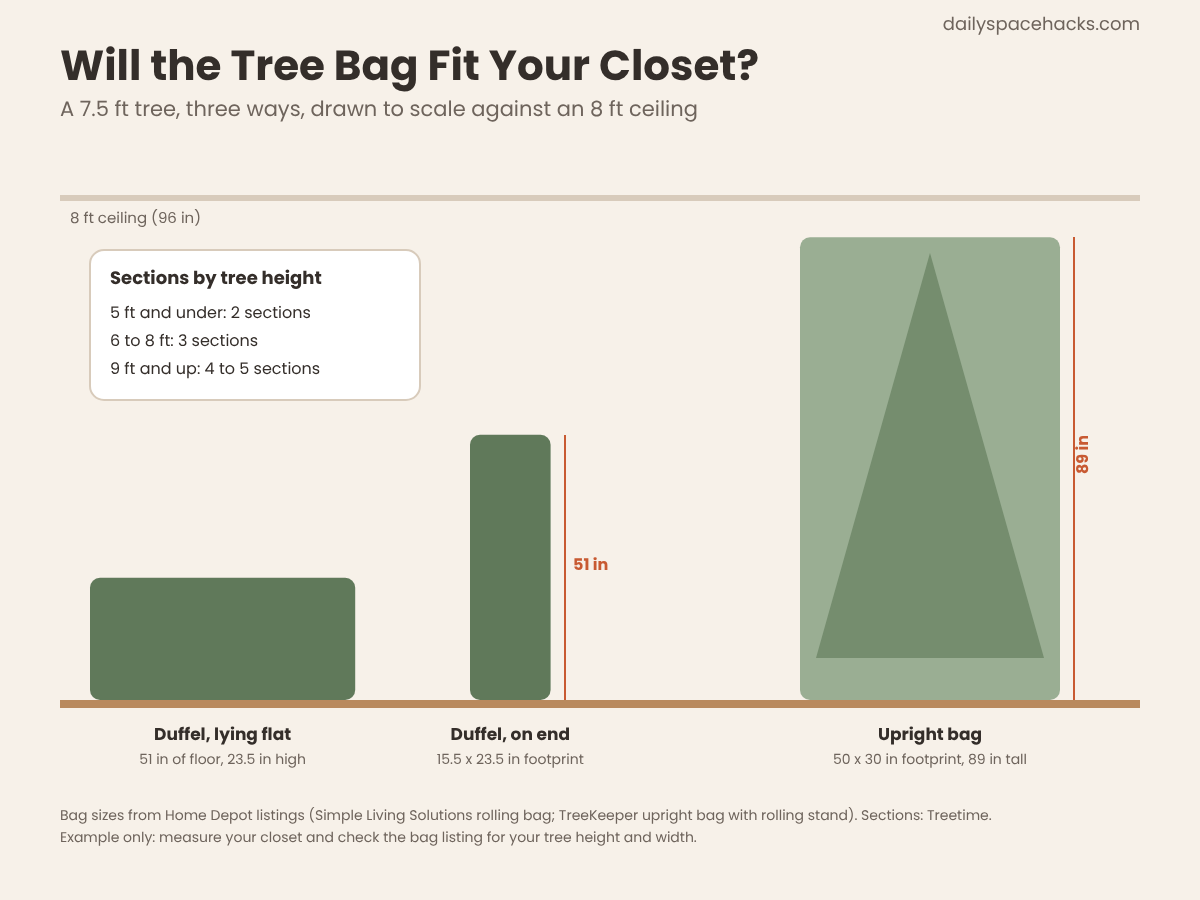
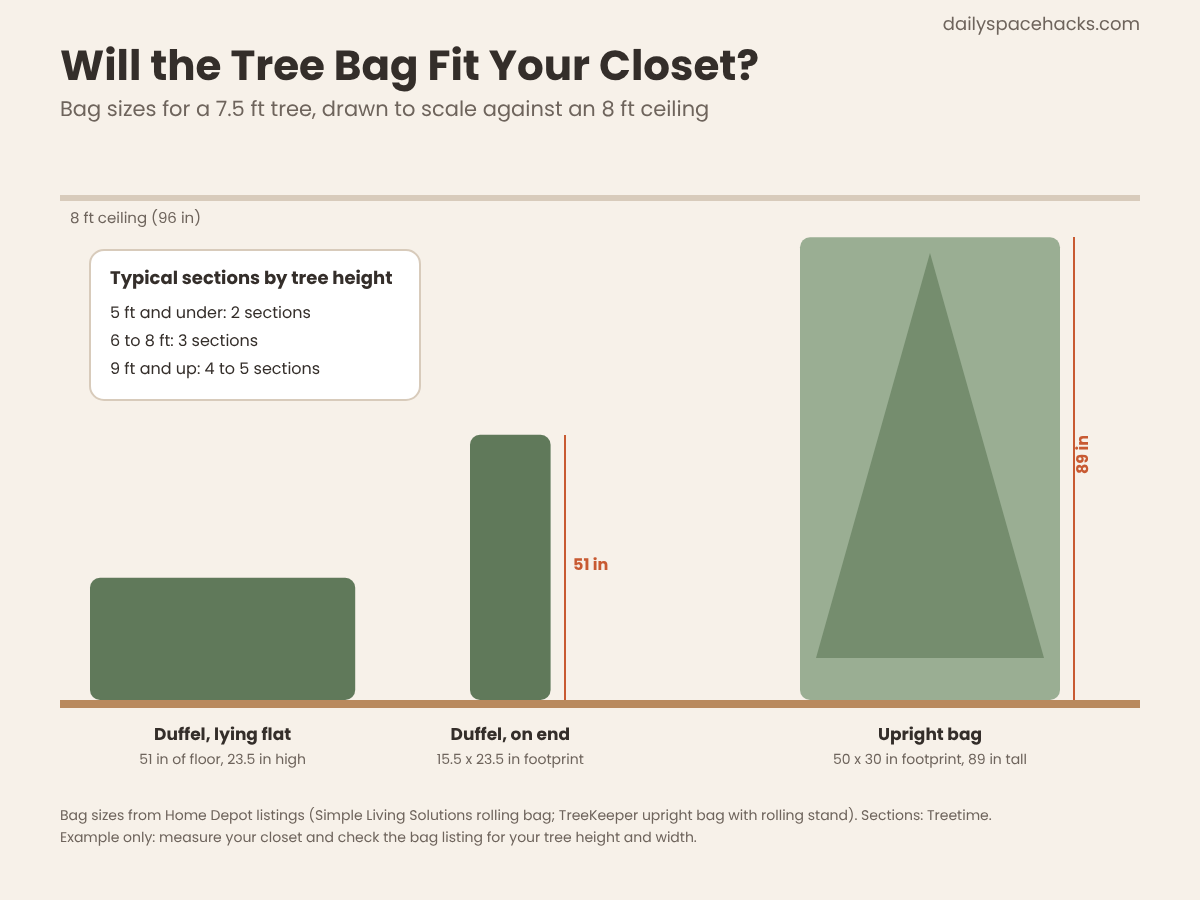
xmas tree fact-check fixes
Claude-Session: https://claude.ai/code/session_015bHY4eNJzsj1XRjde6uJvz

Changed region(s): [[0.0617, 0.0933, 0.5858, 0.1556], [0.0925, 0.28, 0.3392, 0.3422]]

diff --git a/tools/xmas-tree/content.html b/tools/xmas-tree/content.html
@@ -3,11 +3,11 @@
 <!-- /wp:paragraph -->
 
 <!-- wp:paragraph -->
-<p>Done this way, the tree comes out next December in the same shape it went in. Treated well, an artificial tree can last a long time: Balsam Hill's CEO told Scripps News that <a href="https://www.scrippsnews.com/dont-waste-your-money/dont-make-these-mistakes-taking-down-your-artificial-tree" target="_blank" rel="noopener">proper care can help it last 10 years or more</a>.</p>
+<p>Done this way, the tree comes out next December in the same shape it went in. Treated well, an artificial tree can last a long time: Balsam Hill founder and CEO Mac Harman told Scripps News that today's trees <a href="https://www.scrippsnews.com/dont-waste-your-money/dont-make-these-mistakes-taking-down-your-artificial-tree" target="_blank" rel="noopener">could last a decade or more</a>.</p>
 <!-- /wp:paragraph -->
 
-<!-- wp:image {"id":0,"sizeSlug":"full","linkDestination":"none"} -->
-<figure class="wp-block-image size-full"><img src="https://dailyspacehacks.com/wp-content/uploads/2026/10/x.jpg" alt="x" class="wp-image-0"/></figure>
+<!-- wp:image {"id":3350,"sizeSlug":"full","linkDestination":"none"} -->
+<figure class="wp-block-image size-full"><img src="https://dailyspacehacks.com/wp-content/uploads/2026/10/how-to-store-an-artificial-christmas-tree-01-tree-and-bag.jpg" alt="Undecorated artificial Christmas tree in a living room beside an open green rolling storage bag, a metal tree stand and a clear bin of ornaments" class="wp-image-3350"/></figure>
 <!-- /wp:image -->
 
 <!-- wp:heading -->
@@ -23,7 +23,7 @@
 <!-- /wp:heading -->
 
 <!-- wp:paragraph -->
-<p>A tree that goes into a bag dusty or damp comes out musty. Nearly Natural, a maker of artificial trees, suggests you <a href="https://www.nearlynatural.com/blogs/artificial-plants-and-trees-news/how-to-store-your-artificial-christmas-tree" target="_blank" rel="noopener">use a soft cloth or microfiber duster to wipe each branch</a>. Puleo, quoted by Reviewed, advises: <a href="https://reviewed.com/organization/features/how-store-artificial-christmas-tree" target="_blank" rel="noopener">allow the tree to dry thoroughly before storing</a>. If the tree stood near a humidifier or a door that let in snow, give it a day in a dry room first.</p>
+<p>A tree that goes into a bag dusty or damp comes out musty. Nearly Natural, a maker of artificial trees, suggests you <a href="https://www.nearlynatural.com/blogs/artificial-plants-and-trees-news/how-to-store-your-artificial-christmas-tree" target="_blank" rel="noopener">use a soft cloth or microfiber duster to wipe each branch</a>. Lewis Puleo of Puleo International, an artificial tree maker, told Reviewed to <a href="https://reviewed.com/organization/features/how-store-artificial-christmas-tree" target="_blank" rel="noopener">allow the tree to dry thoroughly before storing</a>. If the tree stood near a humidifier or a door that let in snow, give it a day in a dry room first.</p>
 <!-- /wp:paragraph -->
 
 <!-- wp:heading -->
@@ -31,19 +31,19 @@
 <!-- /wp:heading -->
 
 <!-- wp:paragraph -->
-<p>Work in the reverse order you put it up. King of Christmas says to remove each section <a href="https://www.kingofchristmas.com/pages/tree-assembly-shaping-and-storage" target="_blank" rel="noopener">starting from the top section and ending with the stand</a>, and a National Tree Company manual notes that a twisting motion helps separate stiff sections. Most 6 to 8 foot trees come apart into three sections, according to Treetime; smaller trees have two, and trees of 9 feet and up have four or five. On a pre-lit tree, unplug the connectors between sections first and don't pull on the wires: King of Christmas asks you <a href="https://www.kingofchristmas.com/pages/tree-assembly-shaping-and-storage" target="_blank" rel="noopener">not to use force or tug at the wires</a>.</p>
+<p>Work in the reverse order you put it up. King of Christmas says to remove each section <a href="https://www.kingofchristmas.com/pages/tree-assembly-shaping-and-storage" target="_blank" rel="noopener">starting from the top section and ending with the stand</a>, and a National Tree Company manual notes that a twisting motion helps separate stiff sections. Most 6 to 8 foot trees come apart into three sections, according to Treetime; trees 5 feet and under typically have two, and trees 9 feet and taller may have four or five. On a pre-lit tree, unplug the connectors between sections first, and lift each section by the pole, not by the wires.</p>
 <!-- /wp:paragraph -->
 
 <!-- wp:heading -->
 <h2 class="wp-block-heading">Step 4: Fold the Branches Up and Tie Each Section</h2>
 <!-- /wp:heading -->
 
-<!-- wp:image {"id":0,"sizeSlug":"full","linkDestination":"none"} -->
-<figure class="wp-block-image size-full"><img src="https://dailyspacehacks.com/wp-content/uploads/2026/10/x.jpg" alt="x" class="wp-image-0"/></figure>
+<!-- wp:image {"id":3351,"sizeSlug":"full","linkDestination":"none"} -->
+<figure class="wp-block-image size-full"><img src="https://dailyspacehacks.com/wp-content/uploads/2026/10/how-to-store-an-artificial-christmas-tree-02-folded-sections.jpg" alt="Three artificial Christmas tree sections with branches folded up, each tied with red ribbon, beside a small zip bag holding the stand bolt" class="wp-image-3351"/></figure>
 <!-- /wp:image -->
 
 <!-- wp:paragraph -->
-<p>Branches fold up toward the pole, the way the tree arrived. Balsam Hill says to compress the foliage with both hands before detaching each section, then <a href="https://balsamhill.com/storing-your-artificial-christmas-tree-instructions" target="_blank" rel="noopener">tie a ribbon or cord around the section</a> so it stays compact. Don't overdo it. Treetime warns that <a href="https://www.treetime.com/how-to-store-my-artificial-christmas-tree" target="_blank" rel="noopener">over-compressing branches</a> makes next year's shaping harder, and pre-lit trees need extra care so bulbs don't snap. If your lights are separate strings, Public Storage advises: <a href="https://www.publicstorage.com/blog/storage-tips/artificial-christmas-tree-storage.html" target="_blank" rel="noopener">avoid wrapping cords tightly around branches</a>. Wind them around a piece of card instead.</p>
+<p>Branches fold up toward the pole, the way the tree arrived. Balsam Hill's method is to compress each section's foliage with both hands while it is still on the tree, then lift it off and <a href="https://balsamhill.com/storing-your-artificial-christmas-tree-instructions" target="_blank" rel="noopener">tie a ribbon or cord around the section</a> so it stays compact. Don't overdo it. Treetime warns that <a href="https://www.treetime.com/how-to-store-my-artificial-christmas-tree" target="_blank" rel="noopener">over-compressing branches</a> makes next year's shaping harder. On a pre-lit tree, Balsam Hill says to <a href="https://balsamhill.com/storing-your-artificial-christmas-tree-instructions" target="_blank" rel="noopener">take extra care when compressing the branches</a> so the bulbs don't get damaged. On a pre-lit tree, Public Storage advises: <a href="https://www.publicstorage.com/blog/storage-tips/artificial-christmas-tree-storage.html" target="_blank" rel="noopener">avoid wrapping cords tightly around branches</a>. If your lights are separate strings, take them off and wind them loosely around a piece of cardboard.</p>
 <!-- /wp:paragraph -->
 
 <!-- wp:heading -->
@@ -51,7 +51,7 @@
 <!-- /wp:heading -->
 
 <!-- wp:paragraph -->
-<p>The cardboard box the tree came in is almost impossible to close again, and Balsam Hill says such boxes are <a href="https://www.balsamhill.com/how-to-store-your-christmas-decorations" target="_blank" rel="noopener">bound to deteriorate over time</a>. Balsam Hill says storage bags offer better protection against heat, humidity and pests, and a rolling one is easier to move. Before you buy, check the bag against your tree and your closet:</p>
+<p>The cardboard box the tree came in is often hard to close again, and Balsam Hill says such boxes are <a href="https://www.balsamhill.com/how-to-store-your-christmas-decorations" target="_blank" rel="noopener">bound to deteriorate over time</a>. Balsam Hill says storage bags <a href="https://balsamhill.com/storing-your-artificial-christmas-tree-instructions" target="_blank" rel="noopener">offer superior protection against heat, humidity, and damage from pests</a>, and a bag with wheels is easier to move. Before you buy, check the bag against your tree and your closet:</p>
 <!-- /wp:paragraph -->
 
 <!-- wp:list -->
@@ -62,44 +62,44 @@
 <li><strong>Upright bags</strong> zip over the tree while it is still assembled, but they are big: a TreeKeeper bag for trees up to 7.5 feet measures <a href="https://www.homedepot.com/p/TreeKeeper-Medium-Upright-Christmas-Tree-Storage-Bag-for-Trees-Up-to-7-5-ft-Tall-with-Rolling-Tree-Stand-TK-10105-RS/310520633" target="_blank" rel="noopener">H 89 in, W 50 in, D 30 in</a>.</li>
 <!-- /wp:list-item -->
 <!-- wp:list-item -->
-<li><strong>Big trees</strong> can go in two bags. Balsam Hill suggests putting the odd-numbered sections in one and the even-numbered sections in the other, so neither bag gets too heavy.</li>
+<li><strong>Big trees</strong> can go in two bags. Balsam Hill suggests putting the odd-numbered sections in one and the even-numbered sections in the other.</li>
 <!-- /wp:list-item --></ul>
 <!-- /wp:list -->
 
 <!-- wp:html -->
-<figure class="dsh-diagram"><svg xmlns="http://www.w3.org/2000/svg" viewBox="0 0 1200 900" font-family="Poppins, sans-serif" role="img" aria-labelledby="xt-t xt-d"><title id="xt-t">Will your Christmas tree bag fit the closet?</title><desc id="xt-d">Side view, to scale, of three ways to store a 7.5 foot artificial tree in a closet with a 96 inch (8 foot) ceiling. A rolling duffel bag of about 51 by 15.5 by 23.5 inches lying flat takes 51 inches of floor; stood on end it needs 51 inches of height and a footprint of about 15.5 by 23.5 inches. An upright storage bag with a rolling stand, about 89 inches tall, 50 inches wide and 30 inches deep, keeps the tree assembled but needs a 50 by 30 inch footprint and at least 89 inches of height. Typical section counts: trees of 5 feet and under have 2 sections, 6 to 8 feet have 3, and 9 feet and up have 4 to 5.</desc><rect width="1200" height="900" fill="#F7F1E9"/><text x="60" y="80" font-size="42" font-weight="700" fill="#342E2A">Will the Tree Bag Fit Your Closet?</text><text x="60" y="116" font-size="21" fill="#6E645C">A 7.5 ft tree, three ways, drawn to scale against an 8 ft ceiling</text><text x="1140" y="30" font-size="18" fill="#6E645C" text-anchor="end">dailyspacehacks.com</text><rect x="60" y="195" width="1080" height="6" fill="#D8CBBB"/><text x="70" y="223" font-size="15" fill="#6E645C">8 ft ceiling (96 in)</text><rect x="60" y="700" width="1080" height="8" fill="#B98A5E"/><rect x="90" y="577.8" width="265.2" height="122.2" rx="10" fill="#4F6B4A" opacity="0.9"/><text x="222.6" y="740" font-size="17" font-weight="700" fill="#342E2A" text-anchor="middle">Duffel, lying flat</text><text x="222.6" y="764" font-size="14" fill="#6E645C" text-anchor="middle">51 in of floor, 23.5 in high</text><rect x="470" y="434.8" width="80.6" height="265.2" rx="10" fill="#4F6B4A" opacity="0.9"/><text x="510.3" y="740" font-size="17" font-weight="700" fill="#342E2A" text-anchor="middle">Duffel, on end</text><text x="510.3" y="764" font-size="14" fill="#6E645C" text-anchor="middle">15.5 x 23.5 in footprint</text><rect x="800" y="237.2" width="260.0" height="462.8" rx="10" fill="#8FA689" opacity="0.9"/><text x="930.0" y="740" font-size="17" font-weight="700" fill="#342E2A" text-anchor="middle">Upright bag</text><text x="930.0" y="764" font-size="14" fill="#6E645C" text-anchor="middle">50 x 30 in footprint, 89 in tall</text><polygon points="930,253 816,658 1044,658" fill="#4F6B4A" opacity="0.5"/><line x1="565" y1="700" x2="565" y2="435" stroke="#C85A32" stroke-width="2"/><text x="573" y="570" font-size="16" font-weight="700" fill="#C85A32">51 in</text><line x1="1074" y1="700" x2="1074" y2="237" stroke="#C85A32" stroke-width="2"/><text x="1080" y="466" font-size="16" font-weight="700" fill="#C85A32" transform="rotate(-90 1088 466)">89 in</text><rect x="90" y="250" width="330" height="150" rx="14" fill="#FFFFFF" stroke="#D8CBBB" stroke-width="2"/><text x="110" y="284" font-size="18" font-weight="700" fill="#342E2A">Sections by tree height</text><text x="110" y="318" font-size="16" fill="#342E2A">5 ft and under: 2 sections</text><text x="110" y="346" font-size="16" fill="#342E2A">6 to 8 ft: 3 sections</text><text x="110" y="374" font-size="16" fill="#342E2A">9 ft and up: 4 to 5 sections</text><text x="60" y="820" font-size="14" fill="#6E645C">Bag sizes from Home Depot listings (Simple Living Solutions rolling bag; TreeKeeper upright bag with rolling stand). Sections: Treetime.</text><text x="60" y="842" font-size="14" fill="#6E645C">Example only: measure your closet and check the bag listing for your tree height and width.</text></svg><figcaption>A duffel bag on end needs the least floor space; an upright bag keeps the tree assembled but needs about 89 inches of height.</figcaption></figure>
+<figure class="dsh-diagram"><svg xmlns="http://www.w3.org/2000/svg" viewBox="0 0 1200 900" font-family="Poppins, sans-serif" role="img" aria-labelledby="xt-t xt-d"><title id="xt-t">Will your Christmas tree bag fit the closet?</title><desc id="xt-d">Side view, to scale, of three ways to store a 7.5 foot artificial tree in a closet with a 96 inch (8 foot) ceiling. A rolling duffel bag of about 51 by 15.5 by 23.5 inches lying flat takes 51 inches of floor; stood on end it needs 51 inches of height and a footprint of about 15.5 by 23.5 inches. An upright storage bag with a rolling stand, about 89 inches tall, 50 inches wide and 30 inches deep, keeps the tree assembled but needs a 50 by 30 inch footprint and at least 89 inches of height. Typical section counts: trees of 5 feet and under have 2 sections, 6 to 8 feet have 3, and 9 feet and up have 4 to 5.</desc><rect width="1200" height="900" fill="#F7F1E9"/><text x="60" y="80" font-size="42" font-weight="700" fill="#342E2A">Will the Tree Bag Fit Your Closet?</text><text x="60" y="116" font-size="21" fill="#6E645C">Bag sizes for a 7.5 ft tree, drawn to scale against an 8 ft ceiling</text><text x="1140" y="30" font-size="18" fill="#6E645C" text-anchor="end">dailyspacehacks.com</text><rect x="60" y="195" width="1080" height="6" fill="#D8CBBB"/><text x="70" y="223" font-size="15" fill="#6E645C">8 ft ceiling (96 in)</text><rect x="60" y="700" width="1080" height="8" fill="#B98A5E"/><rect x="90" y="577.8" width="265.2" height="122.2" rx="10" fill="#4F6B4A" opacity="0.9"/><text x="222.6" y="740" font-size="17" font-weight="700" fill="#342E2A" text-anchor="middle">Duffel, lying flat</text><text x="222.6" y="764" font-size="14" fill="#6E645C" text-anchor="middle">51 in of floor, 23.5 in high</text><rect x="470" y="434.8" width="80.6" height="265.2" rx="10" fill="#4F6B4A" opacity="0.9"/><text x="510.3" y="740" font-size="17" font-weight="700" fill="#342E2A" text-anchor="middle">Duffel, on end</text><text x="510.3" y="764" font-size="14" fill="#6E645C" text-anchor="middle">15.5 x 23.5 in footprint</text><rect x="800" y="237.2" width="260.0" height="462.8" rx="10" fill="#8FA689" opacity="0.9"/><text x="930.0" y="740" font-size="17" font-weight="700" fill="#342E2A" text-anchor="middle">Upright bag</text><text x="930.0" y="764" font-size="14" fill="#6E645C" text-anchor="middle">50 x 30 in footprint, 89 in tall</text><polygon points="930,253 816,658 1044,658" fill="#4F6B4A" opacity="0.5"/><line x1="565" y1="700" x2="565" y2="435" stroke="#C85A32" stroke-width="2"/><text x="573" y="570" font-size="16" font-weight="700" fill="#C85A32">51 in</text><line x1="1074" y1="700" x2="1074" y2="237" stroke="#C85A32" stroke-width="2"/><text x="1080" y="466" font-size="16" font-weight="700" fill="#C85A32" transform="rotate(-90 1088 466)">89 in</text><rect x="90" y="250" width="330" height="150" rx="14" fill="#FFFFFF" stroke="#D8CBBB" stroke-width="2"/><text x="110" y="284" font-size="18" font-weight="700" fill="#342E2A">Typical sections by tree height</text><text x="110" y="318" font-size="16" fill="#342E2A">5 ft and under: 2 sections</text><text x="110" y="346" font-size="16" fill="#342E2A">6 to 8 ft: 3 sections</text><text x="110" y="374" font-size="16" fill="#342E2A">9 ft and up: 4 to 5 sections</text><text x="60" y="820" font-size="14" fill="#6E645C">Bag sizes from Home Depot listings (Simple Living Solutions rolling bag; TreeKeeper upright bag with rolling stand). Sections: Treetime.</text><text x="60" y="842" font-size="14" fill="#6E645C">Example only: measure your closet and check the bag listing for your tree height and width.</text></svg><figcaption>A duffel bag on end needs the least floor space; an upright bag keeps the tree assembled but needs about 89 inches of height.</figcaption></figure>
 <!-- /wp:html -->
 
 <!-- wp:paragraph -->
-<p>Put the largest section in first, as King of Christmas suggests, and don't force the zip. Balsam Hill's CEO told Scripps News: <a href="https://www.scrippsnews.com/dont-waste-your-money/dont-make-these-mistakes-taking-down-your-artificial-tree" target="_blank" rel="noopener">don't smash it in so tight that it puts stress on the wires</a>. Keep the stand and its bolt in a separate small bag so the metal doesn't crush the branches.</p>
+<p>Put the largest section in first, as King of Christmas suggests, and don't force the zipper. Balsam Hill's CEO told Scripps News: <a href="https://www.scrippsnews.com/dont-waste-your-money/dont-make-these-mistakes-taking-down-your-artificial-tree" target="_blank" rel="noopener">don't smash it in so tight that it puts stress on the wires</a>. Keep the stand and its bolt in a separate small bag so the metal doesn't crush the branches.</p>
 <!-- /wp:paragraph -->
 
 <!-- wp:heading -->
 <h2 class="wp-block-heading">Step 6: Choose a Cool, Dry Spot</h2>
 <!-- /wp:heading -->
 
-<!-- wp:image {"id":0,"sizeSlug":"full","linkDestination":"none"} -->
-<figure class="wp-block-image size-full"><img src="https://dailyspacehacks.com/wp-content/uploads/2026/10/x.jpg" alt="x" class="wp-image-0"/></figure>
+<!-- wp:image {"id":3352,"sizeSlug":"full","linkDestination":"none"} -->
+<figure class="wp-block-image size-full"><img src="https://dailyspacehacks.com/wp-content/uploads/2026/10/how-to-store-an-artificial-christmas-tree-03-bag-in-closet.jpg" alt="Green tree storage bag standing upright on a raised wooden platform inside a hall closet, next to hanging coats and storage bins" class="wp-image-3352"/></figure>
 <!-- /wp:image -->
 
 <!-- wp:paragraph -->
-<p>Where you keep the tree matters as much as how you pack it. A National Tree Company manual says to store it <a href="https://images.homedepot-static.com/catalog/pdfImages/ac/acc7fa34-739f-4a35-84d9-3e085469009b.pdf" target="_blank" rel="noopener">in a cool, dry location protected from sunlight</a>, and Nearly Natural says to avoid damp basements and hot attics, because heat can cause lights to fail or branches to lose their shape. HomeServe says an attic <a href="https://www.homeserve.com/en-us/blog/home-improvement/dangerous-attic-temperature-in-the-summer" target="_blank" rel="noopener">can reach 150 degrees Fahrenheit</a> in summer. Balsam Hill notes that damage from excessive heat or humidity in storage is not covered by its warranty.</p>
+<p>Where you keep the tree matters as much as how you pack it. A National Tree Company manual says to store it <a href="https://images.homedepot-static.com/catalog/pdfImages/ac/acc7fa34-739f-4a35-84d9-3e085469009b.pdf" target="_blank" rel="noopener">in a cool, dry location protected from sunlight</a>, and Nearly Natural says to avoid damp basements and hot attics, because heat can cause lights to fail or branches to lose their shape. HomeServe says an attic <a href="https://www.homeserve.com/en-us/blog/home-improvement/dangerous-attic-temperature-in-the-summer" target="_blank" rel="noopener">can reach 150 degrees Fahrenheit</a> in summer if it isn't properly ventilated. Balsam Hill notes that damage from excessive heat or humidity in storage is not covered by its warranty.</p>
 <!-- /wp:paragraph -->
 
 <!-- wp:list -->
 <ul class="wp-block-list"><!-- wp:list-item -->
-<li><strong>Best:</strong> an indoor closet. Tom's Guide calls it <a href="https://www.tomsguide.com/features/7-places-you-should-never-store-your-christmas-tree" target="_blank" rel="noopener">the ideal environment to store your tree</a>. Stand the bag on end at the back, on a low shelf or platform off the floor.</li>
+<li><strong>Best:</strong> an indoor closet. Tom's Guide calls it <a href="https://www.tomsguide.com/features/7-places-you-should-never-store-your-christmas-tree" target="_blank" rel="noopener">the ideal environment to store your tree</a>. If floor space is tight, a duffel bag can stand on end at the back (see the diagram above). Keep it off the floor on a low platform, and as Balsam Hill says, <a href="https://balsamhill.com/storing-your-artificial-christmas-tree-instructions" target="_blank" rel="noopener">do not stack boxes or bags on top of it</a>.</li>
 <!-- /wp:list-item -->
 <!-- wp:list-item -->
-<li><strong>Basement:</strong> only if it is dry. The University of Florida extension advises keeping indoor humidity <a href="https://journals.flvc.org/edis/article/download/116527/114711" target="_blank" rel="noopener">below 60% relative humidity</a>, ideally 30 to 50%.</li>
+<li><strong>Basement:</strong> only if it is dry. University of Florida IFAS Extension advises keeping indoor humidity <a href="https://journals.flvc.org/edis/article/download/116527/114711" target="_blank" rel="noopener">below 60% relative humidity</a>, ideally 30 to 50%.</li>
 <!-- /wp:list-item -->
 <!-- wp:list-item -->
-<li><strong>Garage or shed:</strong> watch for mice. Mississippi State University Extension says rodents <a href="https://extension.msstate.edu/newsletters/dawg-tracks-safety-talk/2021/controlling-mice-big-ole-rats" target="_blank" rel="noopener">will gnaw on wiring of any kind</a>, which is bad news for a pre-lit tree.</li>
+<li><strong>Garage or shed:</strong> watch for mice. Mississippi State University Extension says rodents <a href="https://extension.msstate.edu/newsletters/dawg-tracks-safety-talk/2021/controlling-mice-big-ole-rats" target="_blank" rel="noopener">will gnaw on wiring of any kind</a>, which is bad news for a pre-lit tree. Tom's Guide adds that a garage can leave it smelling of motor oil, gas or paint.</li>
 <!-- /wp:list-item --></ul>
 <!-- /wp:list -->
 
-<!-- wp:image {"id":0,"sizeSlug":"full","linkDestination":"none"} -->
-<figure class="wp-block-image size-full"><img src="https://dailyspacehacks.com/wp-content/uploads/2026/10/x.jpg" alt="x" class="wp-image-0"/></figure>
+<!-- wp:image {"id":3353,"sizeSlug":"full","linkDestination":"none"} -->
+<figure class="wp-block-image size-full"><img src="https://dailyspacehacks.com/wp-content/uploads/2026/10/how-to-store-an-artificial-christmas-tree-04-upright-bag.jpg" alt="Upright green zippered storage cover over an assembled artificial tree on a wheeled base in a clean, dry basement with wire storage shelves" class="wp-image-3353"/></figure>
 <!-- /wp:image -->
 
 <!-- wp:paragraph -->
@@ -111,7 +111,7 @@
 <!-- /wp:heading -->
 
 <!-- wp:paragraph -->
-<p>When the tree comes out, assemble it and shape the branches from the bottom up. King of Christmas says to separate and shape each tip <a href="https://www.kingofchristmas.com/pages/tree-assembly-shaping-and-storage" target="_blank" rel="noopener">beginning from the bottom</a>, starting with the inner tips. Before you switch the lights on, follow the National Fire Protection Association's advice to <a href="https://portal.ct.gov/CFPC/_old/State-Fire-Administrator/General/NFPA-Offers-Tips-to-Keep-Holidays-Festive-and-Fire-Safe-this-Season" target="_blank" rel="noopener">replace any string of lights with worn or broken cords</a> or loose bulb connections, and connect no more than three strands of mini string sets. When it is time to buy a new tree, the NFPA says to choose one labeled, certified or identified by the manufacturer as fire retardant. Our <a href="https://dailyspacehacks.com/christmas-tree-lights-calculator/">Christmas tree lights calculator</a> works out how many lights a tree needs.</p>
+<p>When the tree comes out, assemble it and shape the branches from the bottom up. King of Christmas says to separate and shape each tip <a href="https://www.kingofchristmas.com/pages/tree-assembly-shaping-and-storage" target="_blank" rel="noopener">beginning from the bottom</a>, starting with the inner tips. On a pre-lit tree, King of Christmas asks you <a href="https://www.kingofchristmas.com/pages/tree-assembly-shaping-and-storage" target="_blank" rel="noopener">not to use force or tug at the wires</a> while you shape it. Before you switch the lights on, follow the National Fire Protection Association's advice to <a href="https://portal.ct.gov/CFPC/_old/State-Fire-Administrator/General/NFPA-Offers-Tips-to-Keep-Holidays-Festive-and-Fire-Safe-this-Season" target="_blank" rel="noopener">replace any string of lights with worn or broken cords</a> or loose bulb connections, and, for separate light strings, connect no more than three strands of mini string sets or 50 screw-in bulbs. For LED sets, the NFPA says to follow the manufacturer's instructions. When it is time to buy a new tree, the NFPA says to choose one labeled, certified or identified by the manufacturer as fire retardant. Our <a href="https://dailyspacehacks.com/christmas-tree-lights-calculator/">Christmas tree lights calculator</a> works out how many lights a tree needs.</p>
 <!-- /wp:paragraph -->
 
 <!-- wp:heading -->
@@ -131,7 +131,7 @@
 <!-- /wp:heading -->
 
 <!-- wp:paragraph -->
-<p>Owners keep an artificial tree for <a href="https://www.ktvu.com/news/real-vs-fake-christmas-trees-what-to-buy-2025" target="_blank" rel="noopener">an average of 10 years</a>, according to the American Christmas Tree Association figures reported by KTVU. Pre-lit trees may last a little less, because the lights wear out first.</p>
+<p>Most owners use an artificial tree for <a href="https://www.ktvu.com/news/real-vs-fake-christmas-trees-what-to-buy-2025" target="_blank" rel="noopener">an average of 10 years</a>, Jami Warner, executive director of the American Christmas Tree Association, told KTVU. Reviewed says a fully lit tree may last <a href="https://reviewed.com/organization/features/how-store-artificial-christmas-tree" target="_blank" rel="noopener">a bit less</a>.</p>
 <!-- /wp:paragraph -->
 
 <!-- wp:heading {"level":3} -->
@@ -139,7 +139,7 @@
 <!-- /wp:heading -->
 
 <!-- wp:paragraph -->
-<p>Fold and tie each section, then wrap it in an old sheet or put it in a heavy-duty bag, and keep the stand separate. Store it on end at the back of a closet, off the floor and away from heat.</p>
+<p>Fold and tie each section, then wrap it in an old sheet or put it in a heavy-duty bag, and keep the stand separate. Store it at the back of a closet, off the floor and away from heat, with nothing stacked on top.</p>
 <!-- /wp:paragraph -->
 
 <!-- wp:paragraph {"className":"dsh-ai-note","fontSize":"small"} -->

diff --git a/tools/xmas-tree/build.py b/tools/xmas-tree/build.py
@@ -22,49 +22,49 @@ SRC={"bh":"https://balsamhill.com/storing-your-artificial-christmas-tree-instruc
 def SR(k,t): return ext(SRC[k],t)
 
 p(f"To store an artificial Christmas tree, unplug it and take off the decorations, dust it and let it dry, then take it apart from the top section down. Fold each section's branches up toward the pole, tie them loosely, and pack the sections in a storage bag with the stand in its own bag. Keep it somewhere cool and dry, such as an indoor closet, not a hot attic or a damp basement.")
-p(f"Done this way, the tree comes out next December in the same shape it went in. Treated well, an artificial tree can last a long time: Balsam Hill's CEO told Scripps News that {SR('scr','proper care can help it last 10 years or more')}.")
+p(f"Done this way, the tree comes out next December in the same shape it went in. Treated well, an artificial tree can last a long time: Balsam Hill founder and CEO Mac Harman told Scripps News that today's trees {SR('scr','could last a decade or more')}.")
 img(1)
 
 h2("Step 1: Unplug It, Undecorate It and Check the Lights")
 p(f"Balsam Hill's first instruction is to {SR('bh','remove all décor and unplug the lights')} before you take the tree apart. On a pre-lit tree, now is the time to check the lights, while you can still see them working. Treetime suggests you {SR('tt','replace burned-out, broken, loose, or missing bulbs')} before the tree goes into storage. Look for damaged wires too: the Consumer Product Safety Commission says to check every set for broken or cracked sockets and frayed wires, and to {SR('cpsc','throw out damaged sets')}. Pack the spare bulbs and the instruction sheet with the tree so they are easy to find next year.")
 
 h2("Step 2: Dust It and Let It Dry")
-p(f"A tree that goes into a bag dusty or damp comes out musty. Nearly Natural, a maker of artificial trees, suggests you {SR('nn','use a soft cloth or microfiber duster to wipe each branch')}. Puleo, quoted by Reviewed, advises: {SR('rev','allow the tree to dry thoroughly before storing')}. If the tree stood near a humidifier or a door that let in snow, give it a day in a dry room first.")
+p(f"A tree that goes into a bag dusty or damp comes out musty. Nearly Natural, a maker of artificial trees, suggests you {SR('nn','use a soft cloth or microfiber duster to wipe each branch')}. Lewis Puleo of Puleo International, an artificial tree maker, told Reviewed to {SR('rev','allow the tree to dry thoroughly before storing')}. If the tree stood near a humidifier or a door that let in snow, give it a day in a dry room first.")
 
 h2("Step 3: Take It Apart From the Top Down")
-p(f"Work in the reverse order you put it up. King of Christmas says to remove each section {SR('kc','starting from the top section and ending with the stand')}, and a National Tree Company manual notes that a twisting motion helps separate stiff sections. Most 6 to 8 foot trees come apart into three sections, according to Treetime; smaller trees have two, and trees of 9 feet and up have four or five. On a pre-lit tree, unplug the connectors between sections first and don't pull on the wires: King of Christmas asks you {SR('kc','not to use force or tug at the wires')}.")
+p(f"Work in the reverse order you put it up. King of Christmas says to remove each section {SR('kc','starting from the top section and ending with the stand')}, and a National Tree Company manual notes that a twisting motion helps separate stiff sections. Most 6 to 8 foot trees come apart into three sections, according to Treetime; trees 5 feet and under typically have two, and trees 9 feet and taller may have four or five. On a pre-lit tree, unplug the connectors between sections first, and lift each section by the pole, not by the wires.")
 
 h2("Step 4: Fold the Branches Up and Tie Each Section")
 img(2)
-p(f"Branches fold up toward the pole, the way the tree arrived. Balsam Hill says to compress the foliage with both hands before detaching each section, then {SR('bh','tie a ribbon or cord around the section')} so it stays compact. Don't overdo it. Treetime warns that {SR('tt','over-compressing branches')} makes next year's shaping harder, and pre-lit trees need extra care so bulbs don't snap. If your lights are separate strings, Public Storage advises: {SR('ps','avoid wrapping cords tightly around branches')}. Wind them around a piece of card instead.")
+p(f"Branches fold up toward the pole, the way the tree arrived. Balsam Hill's method is to compress each section's foliage with both hands while it is still on the tree, then lift it off and {SR('bh','tie a ribbon or cord around the section')} so it stays compact. Don't overdo it. Treetime warns that {SR('tt','over-compressing branches')} makes next year's shaping harder. On a pre-lit tree, Balsam Hill says to {SR('bh','take extra care when compressing the branches')} so the bulbs don't get damaged. On a pre-lit tree, Public Storage advises: {SR('ps','avoid wrapping cords tightly around branches')}. If your lights are separate strings, take them off and wind them loosely around a piece of cardboard.")
 
 h2("Step 5: Pack It in a Bag, Not the Old Box")
-p(f"The cardboard box the tree came in is almost impossible to close again, and Balsam Hill says such boxes are {SR('bh2','bound to deteriorate over time')}. Balsam Hill says storage bags offer better protection against heat, humidity and pests, and a rolling one is easier to move. Before you buy, check the bag against your tree and your closet:")
+p(f"The cardboard box the tree came in is often hard to close again, and Balsam Hill says such boxes are {SR('bh2','bound to deteriorate over time')}. Balsam Hill says storage bags {SR('bh','offer superior protection against heat, humidity, and damage from pests')}, and a bag with wheels is easier to move. Before you buy, check the bag against your tree and your closet:")
 lst([f"<strong>Rolling duffel bags</strong> hold a tree taken apart. A Home Depot listing for a bag for trees up to 7.5 feet gives {SR('hd1','H 51 in, W 15.5 in, D 23.5 in')}.",
 f"<strong>Upright bags</strong> zip over the tree while it is still assembled, but they are big: a TreeKeeper bag for trees up to 7.5 feet measures {SR('hd2','H 89 in, W 50 in, D 30 in')}.",
-"<strong>Big trees</strong> can go in two bags. Balsam Hill suggests putting the odd-numbered sections in one and the even-numbered sections in the other, so neither bag gets too heavy."])
+"<strong>Big trees</strong> can go in two bags. Balsam Hill suggests putting the odd-numbered sections in one and the even-numbered sections in the other."])
 diagram(open('z.svg').read(),"A duffel bag on end needs the least floor space; an upright bag keeps the tree assembled but needs about 89 inches of height.")
-p(f"Put the largest section in first, as King of Christmas suggests, and don't force the zip. Balsam Hill's CEO told Scripps News: {SR('scr','don\'t smash it in so tight that it puts stress on the wires')}. Keep the stand and its bolt in a separate small bag so the metal doesn't crush the branches.")
+p(f"Put the largest section in first, as King of Christmas suggests, and don't force the zipper. Balsam Hill's CEO told Scripps News: {SR('scr','don\'t smash it in so tight that it puts stress on the wires')}. Keep the stand and its bolt in a separate small bag so the metal doesn't crush the branches.")
 
 h2("Step 6: Choose a Cool, Dry Spot")
 img(3)
-p(f"Where you keep the tree matters as much as how you pack it. A National Tree Company manual says to store it {SR('ntc','in a cool, dry location protected from sunlight')}, and Nearly Natural says to avoid damp basements and hot attics, because heat can cause lights to fail or branches to lose their shape. HomeServe says an attic {SR('hs','can reach 150 degrees Fahrenheit')} in summer. Balsam Hill notes that damage from excessive heat or humidity in storage is not covered by its warranty.")
-lst([f"<strong>Best:</strong> an indoor closet. Tom's Guide calls it {SR('tg','the ideal environment to store your tree')}. Stand the bag on end at the back, on a low shelf or platform off the floor.",
-f"<strong>Basement:</strong> only if it is dry. The University of Florida extension advises keeping indoor humidity {SR('uf','below 60% relative humidity')}, ideally 30 to 50%.",
-f"<strong>Garage or shed:</strong> watch for mice. Mississippi State University Extension says rodents {SR('msu','will gnaw on wiring of any kind')}, which is bad news for a pre-lit tree."])
+p(f"Where you keep the tree matters as much as how you pack it. A National Tree Company manual says to store it {SR('ntc','in a cool, dry location protected from sunlight')}, and Nearly Natural says to avoid damp basements and hot attics, because heat can cause lights to fail or branches to lose their shape. HomeServe says an attic {SR('hs','can reach 150 degrees Fahrenheit')} in summer if it isn't properly ventilated. Balsam Hill notes that damage from excessive heat or humidity in storage is not covered by its warranty.")
+lst([f"<strong>Best:</strong> an indoor closet. Tom's Guide calls it {SR('tg','the ideal environment to store your tree')}. If floor space is tight, a duffel bag can stand on end at the back (see the diagram above). Keep it off the floor on a low platform, and as Balsam Hill says, {SR('bh','do not stack boxes or bags on top of it')}.",
+f"<strong>Basement:</strong> only if it is dry. University of Florida IFAS Extension advises keeping indoor humidity {SR('uf','below 60% relative humidity')}, ideally 30 to 50%.",
+f"<strong>Garage or shed:</strong> watch for mice. Mississippi State University Extension says rodents {SR('msu','will gnaw on wiring of any kind')}, which is bad news for a pre-lit tree. Tom's Guide adds that a garage can leave it smelling of motor oil, gas or paint."])
 img(4)
 p(f"If a closet is too small, look at the space under the stairs or at the back of a coat closet. Our {a('under-stairs-storage-ideas','under stairs storage ideas')} and {a('coat-closet-organization','coat closet organization')} guides show how to make room, and our {a('christmas-decoration-storage','Christmas decoration storage')} ideas cover the ornaments, lights and wreaths.")
 
 h2("Step 7: Next Year, Fluff and Check Before You Plug In")
-p(f"When the tree comes out, assemble it and shape the branches from the bottom up. King of Christmas says to separate and shape each tip {SR('kc','beginning from the bottom')}, starting with the inner tips. Before you switch the lights on, follow the National Fire Protection Association's advice to {SR('nfpa','replace any string of lights with worn or broken cords')} or loose bulb connections, and connect no more than three strands of mini string sets. When it is time to buy a new tree, the NFPA says to choose one labeled, certified or identified by the manufacturer as fire retardant. Our {a('christmas-tree-lights-calculator','Christmas tree lights calculator')} works out how many lights a tree needs.")
+p(f"When the tree comes out, assemble it and shape the branches from the bottom up. King of Christmas says to separate and shape each tip {SR('kc','beginning from the bottom')}, starting with the inner tips. On a pre-lit tree, King of Christmas asks you {SR('kc','not to use force or tug at the wires')} while you shape it. Before you switch the lights on, follow the National Fire Protection Association's advice to {SR('nfpa','replace any string of lights with worn or broken cords')} or loose bulb connections, and, for separate light strings, connect no more than three strands of mini string sets or 50 screw-in bulbs. For LED sets, the NFPA says to follow the manufacturer's instructions. When it is time to buy a new tree, the NFPA says to choose one labeled, certified or identified by the manufacturer as fire retardant. Our {a('christmas-tree-lights-calculator','Christmas tree lights calculator')} works out how many lights a tree needs.")
 
 h2("Storing an Artificial Tree: Quick Answers")
 h3("Is it better to store a Christmas tree in a box or a bag?")
 p("A bag. Cardboard boxes break down, are hard to close once the branches have been fluffed, and let in damp and pests. A zippered storage bag with handles or wheels protects the tree better and is easier to carry.")
 h3("How long does an artificial Christmas tree last?")
-p(f"Owners keep an artificial tree for {SR('ktvu','an average of 10 years')}, according to the American Christmas Tree Association figures reported by KTVU. Pre-lit trees may last a little less, because the lights wear out first.")
+p(f"Most owners use an artificial tree for {SR('ktvu','an average of 10 years')}, Jami Warner, executive director of the American Christmas Tree Association, told KTVU. Reviewed says a fully lit tree may last {SR('rev','a bit less')}.")
 h3("How can I store a Christmas tree without a box?")
-p("Fold and tie each section, then wrap it in an old sheet or put it in a heavy-duty bag, and keep the stand separate. Store it on end at the back of a closet, off the floor and away from heat.")
+p("Fold and tie each section, then wrap it in an old sheet or put it in a heavy-duty bag, and keep the stand separate. Store it at the back of a closet, off the floor and away from heat, with nothing stacked on top.")
 ai_note()
 html='\n\n'.join(out)
 open('content.html','w').write(html)

diff --git a/tools/xmas-tree/svg.py b/tools/xmas-tree/svg.py
@@ -7,7 +7,7 @@ desc=("Side view, to scale, of three ways to store a 7.5 foot artificial tree in
 a(f'<svg xmlns="http://www.w3.org/2000/svg" viewBox="0 0 1200 900" font-family="Poppins, sans-serif" role="img" aria-labelledby="xt-t xt-d"><title id="xt-t">Will your Christmas tree bag fit the closet?</title><desc id="xt-d">{desc}</desc>')
 a(f'<rect width="1200" height="900" fill="{BG}"/>')
 a(f'<text x="60" y="80" font-size="42" font-weight="700" fill="{T}">Will the Tree Bag Fit Your Closet?</text>')
-a(f'<text x="60" y="116" font-size="21" fill="{G}">A 7.5 ft tree, three ways, drawn to scale against an 8 ft ceiling</text>')
+a(f'<text x="60" y="116" font-size="21" fill="{G}">Bag sizes for a 7.5 ft tree, drawn to scale against an 8 ft ceiling</text>')
 a(f'<text x="1140" y="30" font-size="18" fill="{G}" text-anchor="end">dailyspacehacks.com</text>')
 k=5.2; floor=700; ceil=floor-96*k
 a(f'<rect x="60" y="{ceil-6:.0f}" width="1080" height="6" fill="{BR}"/>')
@@ -33,7 +33,7 @@ a(f'<line x1="{800+50*k+14:.0f}" y1="{floor}" x2="{800+50*k+14:.0f}" y2="{floor-
 a(f'<text x="{800+50*k+20:.0f}" y="{floor-45*k:.0f}" font-size="16" font-weight="700" fill="{A}" transform="rotate(-90 {800+50*k+28:.0f} {floor-45*k:.0f})">89 in</text>')
 # sections box
 a(f'<rect x="90" y="250" width="330" height="150" rx="14" fill="#FFFFFF" stroke="{BR}" stroke-width="2"/>')
-a(f'<text x="110" y="284" font-size="18" font-weight="700" fill="{T}">Sections by tree height</text>')
+a(f'<text x="110" y="284" font-size="18" font-weight="700" fill="{T}">Typical sections by tree height</text>')
 for j,t in enumerate(("5 ft and under: 2 sections","6 to 8 ft: 3 sections","9 ft and up: 4 to 5 sections")):
     a(f'<text x="110" y="{318+j*28}" font-size="16" fill="{T}">{t}</text>')
 a(f'<text x="60" y="820" font-size="14" fill="{G}">Bag sizes from Home Depot listings (Simple Living Solutions rolling bag; TreeKeeper upright bag with rolling stand). Sections: Treetime.</text>')
